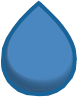
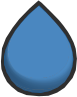
Messo a posto grafica

Changed region(s): [[0.0, 0.0, 1.0, 0.9897]]

diff --git a/css/barrage.css b/css/barrage.css
@@ -2,7 +2,8 @@
 
 :root {
 	/* Colors */
-	--borderColor: whitesmoke;
+	--borderColor: #222222;
+	--whiteBorder: whitesmoke;
 	--blackColor: #3a3a3a;
 	--selectionColor: #e3af54;
 	--greenPlayer: #1a7077;
@@ -71,37 +72,38 @@ body {
 	background-repeat: no-repeat;
 	background-position: center;
 	background-size: contain;
+    font-family: Arial;
 }
 #mappaToolbar {
 	position: absolute;
 	display: flex;
 	flex-direction: row;
 	justify-content: space-between;
-	top: -4.75%;
-	width: calc(var(--mw)*100 - 6px);
+	top: -4.5%;
+	width: calc(var(--mw)*100);
 	height: 4%;
-	border: 3px solid var(--blackColor);
+	/* border: 3px solid var(--blackColor);
 	background-color: #4a4a4a;
-	border-radius: 5px;
+	border-radius: 5px; */
 }
 .azioneButton {	
-	width: 3.5vh;
-	height: 3.5vh;
+	width: calc(var(--mw)*6);
+	height: calc(var(--mw)*6);
     vertical-align: middle;
     text-align: center;
-	line-height: 3.5vh;
+	line-height: calc(var(--mw)*6);
 	font-weight: bold;
 	color: var(--blackColor);
-	border: solid 2px var(--borderColor);
+	background-color: var(--whiteBorder);
+	border: solid 1px var(--borderColor);
 	border-radius: 5px;
 	float: left;
 	cursor: pointer;
 }
 .azioneButton div {	
-	margin: 0.5vh;
-	width: 2.5vh;
-	height: 2.5vh;
-	background-color: var(--blackColor);
+    margin: calc(var(--mw)*0.5);
+    width: calc(var(--mw)*5);
+    height: calc(var(--mw)*5);
 	background-repeat: no-repeat;
 	background-position: center;
 	background-size: contain;
@@ -151,18 +153,18 @@ body {
 	line-height: calc(var(--vh)*5);
 }
 #deckSwitch {	
-	width: calc(var(--mw)*19);
+	width: calc(var(--mw)*14);
 	height: calc(var(--mw)*4.5);
     vertical-align: middle;
     text-align: center;
 	line-height: calc(var(--mw)*4.5);
 	font-weight: bold;
 	color: var(--blackColor);
-	border: solid 2px var(--blackColor);
+	border: solid 1px var(--blackColor);
 	border-radius: 5px;
 	position: absolute;
 	top: calc(var(--mh)*101);
-	left: calc(var(--mw)*81);
+	left: calc(var(--mw)*86);
 	background-color: var(--selectionColor);
 	cursor: pointer;
 }
@@ -187,7 +189,7 @@ body {
 	/* float: left; */
 }
 .areaBacino {
-	border: solid 2px var(--borderColor);
+	border: solid 1px var(--whiteBorder);
 	border-radius: 5px;
 }
 .areaBacino div {
@@ -199,14 +201,17 @@ body {
 	height: 100%;
 }
 .areaBacino div span {
-	font-size: x-large;
+	font-size: large;
 	font-weight: bold;
+	color: var(--whiteBorder);
+}
+#rigaS .areaBacino div span {
 	color: var(--borderColor);
 }
 .areaDiga {
 	width: 7%;
 	height: 100%;
-	border: solid 2px var(--borderColor);
+	border: solid 1px var(--whiteBorder);
 	border-radius: 5px;
 }
 .areaDiga div {
@@ -221,11 +226,12 @@ body {
 	font-size: x-large;
 	font-weight: bold;
 	color: var(--borderColor);
+    margin-left: calc(var(--mw)*1.5);
 }
 .areaCondotta {
 	width: 6%;
 	height: 90%;
-	border: solid 2px var(--borderColor);
+	border: solid 1px var(--whiteBorder);
 	border-radius: calc(var(--mw)*4);
 }
 .areaCondotta div {
@@ -239,7 +245,7 @@ body {
 .areaCentrale {
 	width: 7%;
 	height: 100%;
-	border: solid 2px var(--borderColor);
+	border: solid 1px var(--whiteBorder);
 	border-radius: 5px;
 }
 .areaCentrale div {
@@ -619,14 +625,6 @@ body {
 
 
 
-
-
-
-
-
-
-
-
 /* Selection color: #e3af54 */
 .selector {	
 	width: calc(var(--mw)*4.5);
@@ -635,8 +633,8 @@ body {
     text-align: center;
 	line-height: calc(var(--mw)*4.5);
 	font-weight: bold;
-	color: var(--borderColor);
-	border: solid 2px var(--borderColor);
+	color: var(--whiteBorder);
+	border: solid 1px var(--borderColor);
 	border-radius: 5px;
 	position: absolute;
 	cursor: pointer;
@@ -692,11 +690,11 @@ body {
 	margin-left: auto;
 	margin-right: auto;
 	margin-top: 5vh;
-	border: solid 2px var(--borderColor);
+	border: solid 1px var(--whiteBorder);
 	border-radius: 5px;
 }
 #cartaAzioni {
-	border: solid 2px var(--blackColor);
+	border: solid 1px var(--blackColor);
 	cursor: pointer;
 }
 #cartaCriteri {
@@ -714,7 +712,7 @@ body {
 	line-height: 2.5vh;
 	font-weight: bold;
 	color: var(--blackColor);
-	border: solid 2px var(--blackColor);
+	border: solid 1px var(--blackColor);
 	border-radius: 5px;
 	position: absolute;
 	top: calc(var(--vh)*71.4 + 2vh);
@@ -770,7 +768,7 @@ body {
 	line-height: 2.5vh;
 	font-weight: bold;
 	color: var(--blackColor);
-	border: solid 2px var(--blackColor);
+	border: solid 1px var(--blackColor);
 	border-radius: 5px;
 	background-color: whitesmoke;
 	cursor: pointer;
@@ -784,7 +782,7 @@ body {
 	line-height: 2.5vh;
 	font-weight: bold;
 	color: var(--blackColor);
-	border: solid 2px var(--blackColor);
+	border: solid 1px var(--blackColor);
 	border-radius: 5px;
 	background-color: transparent;
 	cursor: pointer;
@@ -797,7 +795,7 @@ body {
 	line-height: 2.5vh;
 	font-weight: bold;
 	color: var(--blackColor);
-	border: solid 2px var(--blackColor);
+	border: solid 1px var(--blackColor);
 	border-radius: 5px;
 	position: absolute;
 	top: 50vh;
@@ -853,7 +851,7 @@ body {
 		width: 18vw;
 		height: 5.5vw;
 		line-height: 5.5vw;
-		left: 75vw;
+		left: 77.5vw;
 	}
 	#footer {
 		width: 96%;
@@ -861,12 +859,8 @@ body {
 	.rigaArea {
 		width: 100%;
 	}
-	.selector {	
-		width: 5.5vw;
-		height: 5.5vw;
-	}
-	.azioneButton {
-		width: 7.7vw;
-		height: 7.7vw;
+	.areaBacino div {
+		height: 80%;
+		top: 10%;
 	}
 }

diff --git a/js/view.js b/js/view.js
@@ -21,7 +21,7 @@ export function showMappa() {
     const element = document.getElementById('mappaContainer');
     element.style.display = 'block';
     if (element.className.includes(' animated slideInRight')) {
-        element.className.replace(' animated slideInRight', '');
+        element.className = element.className.replace(' animated slideInRight', '');
     }
     element.className = element.className + ' animated slideInRight';
     // const mappa = document.getElementById('mappaContainer');
@@ -38,7 +38,7 @@ export function hideMappa() {
     const element = document.getElementById('deckContainer');
     element.style.display = 'block';
     if (element.className.includes(' animated slideInLeft')) {
-        element.className.replace(' animated slideInLeft', '');
+        element.className = element.className.replace(' animated slideInLeft', '');
     }
     element.className = element.className + ' animated slideInLeft';
 }
@@ -90,7 +90,7 @@ export function mostraPlayers() {
             if (color == 'W') {
                 document.getElementById(pNum + '_Selector').style.color = 'var(--blackPlayer)';
             } else {
-                document.getElementById(pNum + '_Selector').style.color = 'var(--borderColor)';
+                document.getElementById(pNum + '_Selector').style.color = 'var(--whiteBorder)';
             }
         }
 
@@ -134,7 +134,7 @@ export function mostraRisultati() {
             element.style.borderWidth = '3px';
             element.style.backgroundColor = 'rgba(227, 175, 84, 0.5)';
             if (element.className.includes(' animated flash')) {
-                element.className.replace(' animated flash', '');
+                element.className = element.className.replace(' animated flash', '');
             }
             element.className = element.className + ' animated flash';
         }
@@ -147,9 +147,12 @@ export function resetRisultati() {
     for (const elem of elems) {
         const element = document.getElementById('area' + elem);
         if (element) {
-            element.style.borderColor = 'var(--borderColor)';
-            element.style.borderWidth = '2px';
+            element.style.borderColor = 'var(--whiteBorder)';
+            element.style.borderWidth = '1px';
             element.style.backgroundColor = 'transparent';
+            if (element.className.includes(' animated flash')) {
+                element.className = element.className.replace(' animated flash', '');
+            }
         }
     }
 }

diff --git a/main.html b/main.html
@@ -294,7 +294,7 @@
 					</div>
 					<div id="areaDF_5G" class="area areaBacino">
 						<div id="areaDF_5GContent" style="display: none;">
-							<img src="img/goccia.png" /> &nbsp;<span id="areaDF_5GText"></span>
+							<img src="img/goccia.png" /><span id="areaDF_5GText"></span>
 						</div>
 					</div>
 					<div id="areaC_5B" class="area areaCondotta">
@@ -309,7 +309,7 @@
 					</div>
 					<div id="areaDF_6G" class="area areaBacino">
 						<div id="areaDF_6GContent" style="display: none;">
-							<img src="img/goccia.png" /> &nbsp;<span id="areaDF_6GText"></span>
+							<img src="img/goccia.png" /><span id="areaDF_6GText"></span>
 						</div>
 					</div>
 					<div id="areaC_6B" class="area areaCondotta">
@@ -324,7 +324,7 @@
 					</div>
 					<div id="areaDF_7G" class="area areaBacino">
 						<div id="areaDF_7GContent" style="display: none;">
-							<img src="img/goccia.png" /> &nbsp;<span id="areaDF_7GText"></span>
+							<img src="img/goccia.png" /><span id="areaDF_7GText"></span>
 						</div>
 					</div>
 					<div id="areaC_7B" class="area areaCondotta">
@@ -441,7 +441,7 @@
 					</div>
 					<div id="areaDF_8G" class="area areaBacino">
 						<div id="areaDF_8GContent" style="display: none;">
-							<img src="img/goccia.png" /> &nbsp;<span id="areaDF_8GText"></span>
+							<img src="img/goccia.png" /><span id="areaDF_8GText"></span>
 						</div>
 					</div>
 					<div id="areaC_8B" class="area areaCondotta">
@@ -456,7 +456,7 @@
 					</div>
 					<div id="areaDF_9G" class="area areaBacino">
 						<div id="areaDF_9GContent" style="display: none;">
-							<img src="img/goccia.png" /> &nbsp;<span id="areaDF_9GText"></span>
+							<img src="img/goccia.png" /><span id="areaDF_9GText"></span>
 						</div>
 					</div>
 					<div id="areaC_9B" class="area areaCondotta">
@@ -471,7 +471,7 @@
 					</div>
 					<div id="areaDF_10G" class="area areaBacino">
 						<div id="areaDF_10GContent" style="display: none;">
-							<img src="img/goccia.png" /> &nbsp;<span id="areaDF_10GText"></span>
+							<img src="img/goccia.png" /><span id="areaDF_10GText"></span>
 						</div>
 					</div>
 					<div id="areaC_10B" class="area areaCondotta">

diff --git a/js/barrage.js b/js/barrage.js
@@ -1289,7 +1289,7 @@ export function changePlayerSelected(player) {
 	for (let player in playerMap) {
 		let p = playerMap[player];
 		document.getElementById(p + '_Selector').style.borderColor = 'var(--borderColor)';
-		document.getElementById(p + '_Selector').style.borderWidth = '2px';
+		document.getElementById(p + '_Selector').style.borderWidth = '1px';
 	}
 	if (playerSelected) {
 		let p = playerMap[playerSelected];
